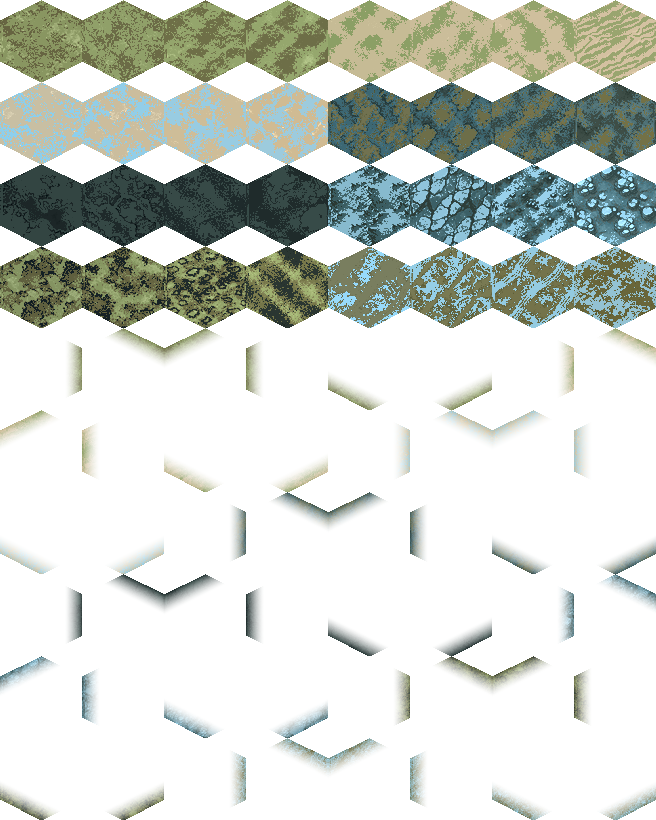
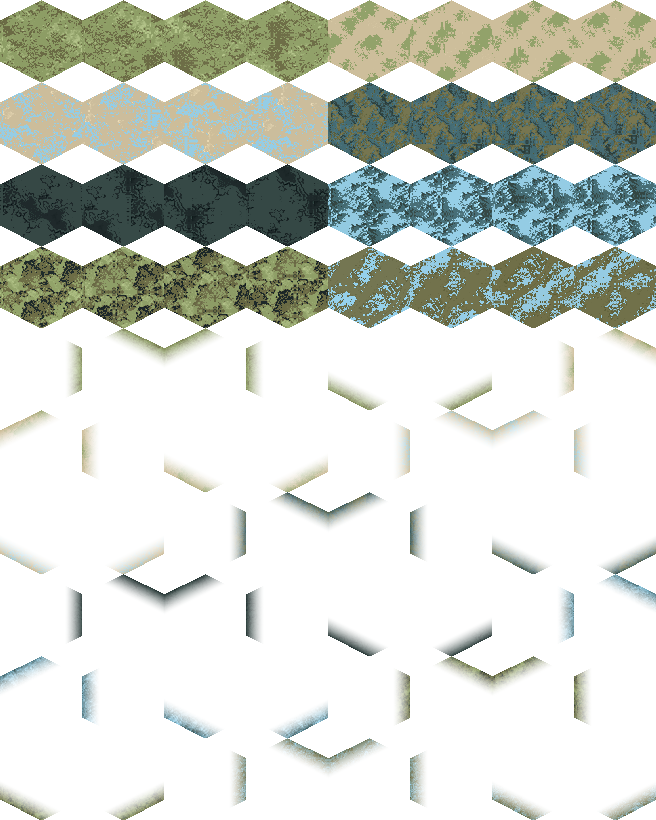
fix(map): варианты биома — фазы одной ткани, а не четыре независимых рисунка
Глазной приём 11.3 по кадру (read, нативный 1× и 0.7×) после круга 17: прямоугольной
сетки нет, но трава читается диагональной «ёлочкой» — мозаикой плиток. Причина в сырье:
варианты биома — четыре независимых арта, и направление мазка у них расходится
(L1 по 18 бинам ориентации градиента: песок 0.94, дорога 0.56, камень 0.36, трава 0.27
из 2). Тон к тону выровнен (`atlas/variant-tone` 1.1), ткань — нет. Меры этого не видели:
`frame/variety` мерит долю модального тайла, `atlas/variant-tone` — средний тон,
`measure_mottle_cut.py` — средний профиль поперёк ребра; ориентацию не мерит никто.

- assemble: варианты = циклический сдвиг нулевого take'а (11…70 px по crc id) + второй
  проход make_wrap. Статистика ткани не меняется, различается фаза, и соседние клетки
  различаются зерном, а не рисунком. Размен: 3 из 4 сгенерированных кадров на биом в
  сборке не участвуют.
- атлас 10d09bd59ccdc1d3302fb20635bc4df1 (201 КБ); кадр phase-variants-t143.png,
  gate-phase-t143.txt: GATE=0, 18/18 (atlas/distinct 1.00, frame/periodicity 0.36 при
  пороге ≤0.60 — лист не стал периодическим, frame/variety grass 0.84 / water 0.74).
  Без кадра 15/15, --self-test 12/12.
- GdUnit 513/513 (tests/unit/world + tests/functional/test_tileset_integrity.gd), exit 0.
- носитель A/B: review-11-3/phase-variants-t143.png (нативный 1× одного seed),
  phase-variants-overview-t143.png. baseline.png не перетёрт.

diff --git a/scripts/gen_map_art.py b/scripts/gen_map_art.py
@@ -351,8 +351,26 @@ def assemble() -> int:
         tiles.append(img)
         cells.append(cell)
 
+    # Варианты биома — фазы ОДНОЙ ткани, а не четыре разных рисунка (глазной приём 11.3,
+    # круг 18): четыре независимых кадра различаются направлением и масштабом мазка —
+    # ориентационное расхождение градиента (L1 по 18 бинам) у песка 0.94, у дороги 0.56,
+    # у травы 0.27 — и карта собирается диагональной «ёлочкой»: глаз читает мозаику
+    # плиток, а не ландшафт (носитель `review-11-3/phase-variants-t143.png`). Циклический
+    # сдвиг зашитого тайла статистики не меняет: соседние клетки различаются зерном,
+    # а не тканью. Рампа и `shift` take'а во всех, кроме нулевого, не участвуют: тон
+    # варианта выравнивается к среднему биома ниже по коду, а `atlas/distinct` (8×8)
+    # различает фазы и так: `atlas/distinct` 1.00 при пороге ≥0.90.
+    fabric: dict[str, np.ndarray] = {}
+
     for r in mats:
-        base = tile_from(r["path"], r["ramp"], r["shift"], r["id"])
+        if r["take"] == 0:
+            base = tile_from(r["path"], r["ramp"], r["shift"], r["id"])
+            fabric[r["biome"]] = np.asarray(base)
+        else:
+            rng = np.random.default_rng(zlib.crc32(r["id"].encode()))
+            dy, dx = rng.integers(11, 71, 2)   # фаза: не кратно 1/2 тайла, чтобы глаз не ловил период
+            rolled = np.roll(np.roll(fabric[r["biome"]], int(dy), 0), int(dx), 1)
+            base = Image.fromarray(make_wrap(rolled, band=WRAP_TILE_BAND), "RGBA")
         add(base, {"id": f"base_{r['biome']}_{r['take']}", "kind": "base", "biome": r["biome"],
                    "variant": r["take"], "source": str(r["path"].relative_to(ROOT))}, r["path"])
         bases.setdefault(r["biome"], []).append(base)

diff --git a/docs/reference/map-baseline/REPORT.md b/docs/reference/map-baseline/REPORT.md
@@ -112,11 +112,12 @@ date: 2026-10-19
 | шов декали ΔE(перо ↔ носимый тон), медиана / худший | 6.7 / 20.5 | **3.6 / 11.6** | `review-t136/`, `measure_decal_seam.py` |
 | Δgrain перо ↔ своя клетка (та же ткань) | — | **0.80×** при контроле **0.98×** (760 пар) | `review-t136/REVIEW.md` |
 | контроль «полосы нет» (однородная ткань) | — | 0.98× (норма 0.9–1.1) | там же |
-| приёмка кадра живого рендера | 17/17 на круге 11 | круга 16: **18/18** на `variant-tone-t143.png`; круга 17: **18/18** на `hex-mask-t143.png`; `frame/edge-step` про шов по-прежнему не утверждает ничего (T-142) | `check_map_art.py --shot`, носитель `hex-mask-t143.png` |
+| приёмка кадра живого рендера | 17/17 на круге 11 | круга 17: **18/18** на `hex-mask-t143.png`; круга 18: **18/18** на `phase-variants-t143.png`; `frame/edge-step` про шов по-прежнему не утверждает ничего (T-142) | `check_map_art.py --shot`, носитель `phase-variants-t143.png` |
 | форма клетки | база и декаль — непрозрачный квадрат 82×82, движок рисует его квадратным квадом в гекс-тайлсете: наезд рядов 20.5 px, по карте сетка прямоугольников | атлас режется гексом движка (`gen_map_art.hex_mask`); гейт `atlas/base-opaque` (ловил ровно этот дефект) заменён на `atlas/hex-shape`, тон/дисперсия/шов меряются по видимой части клетки | `BASELINE.md` «Форма клетки», **T-143** |
 | тон вариантов: макс. ΔE средних тонов внутри биома | 13.4 (mud) — карта собиралась из тоновых заплат | **1.1** (mud) по гексу; гейт `atlas/variant-tone` ≤ 3.0, σ L\* клеток травы 1.93 → 0.91 | `BASELINE.md` «Тон вариантов», **T-143** |
+| структура вариантов: расхождение направления мазка (L1, 18 бинов) | 0.94 (sand), 0.56 (road), 0.36 (rock) — четыре независимых рисунка, на карте диагональная «ёлочка», глаз читает мозаику | варианты — **фазы одной ткани** (циклический сдвиг нулевого take'а); `atlas/distinct` 1.00, `frame/periodicity` 0.36 | `BASELINE.md` «Варианты — фазы», `review-11-3/phase-variants-t143.png`, **T-143** |
 | туман в кадре | флаг был no-op | `fog_cells=1563/1600`, `quit(4)` при нуле | `map_shot.gd`, D-207 |
-| атлас (носитель) | — | md5 `07930abfe612861fbc875b64ded6d498` (клетки вырезаны гексом; прежний `47fa6027…` — до формы клетки, `aa628cc2…` — до T-143) | §9.1 арт-библии |
+| атлас (носитель) | — | md5 `10d09bd59ccdc1d3302fb20635bc4df1` (варианты — фазы одной ткани; `07930abf…` — форма гекса, `47fa6027…` — до T-143) | §9.1 арт-библии |
 | лист объектов (носитель) | — | md5 `8fd69c61331e15a76e7209db6a175138` | там же |
 | референс-кадр 10 | — | md5 `a5342e0a8022767c70f1ddee559de40c` | `reference/INDEX.md` |
 

diff --git a/docs/mvp/TICKETS.md b/docs/mvp/TICKETS.md
@@ -1954,3 +1954,24 @@ sword_hellstorm. **Самоликвидация:** генерация сета 2
   границы биомов идут рёбрами гексов. Осталось видно **стык фактуры** по рёбрам гексов
   (варианты различаются углом и масштабом пятна — круг 16), и это уже не дефект формы.
   Мера расхождения масштаба — `scripts/measure_mottle_cut.py` + доли полос 1…16 px.
+- **Круг 18 (2026-10-19): «ёлочка» — это четыре разных рисунка на биом.** Глазной приём
+  кадра (`read`, нативный 1× и 0.7×, а не меры) после круга 17: прямоугольников нет, но
+  трава читается диагональной решёткой, мозаикой плиток. В сырье расхождение направления
+  мазка между вариантами (L1 по 18 бинам ориентации градиента): песок **0.94**, дорога
+  0.56, камень 0.36, трава 0.27 из 2 — варианты печатаются четырьмя независимыми
+  артами. Тон к тону уже выровнен (`atlas/variant-tone` 1.1), ткань — нет. Ни одна мера
+  этого не видела: `frame/variety` считает долю модального тайла, `atlas/variant-tone` —
+  средний тон, `measure_mottle_cut.py` — средний профиль поперёк ребра; ориентацию не
+  мерит никто (кандидат меры `atlas/orientation`, знаменатель мер не трогать без
+  решения владельца).
+  Правка: варианты биома — циклические сдвиги одного зашитого тайла (нулевого take'а),
+  сдвиг 11…70 px по crc id + второй проход `make_wrap`. Размен: 3 из 4 сгенерированных
+  кадров на биом в сборке не участвуют. Носитель — `review-11-3/phase-variants-t143.png`
+  (нативный A/B одного seed), `phase-variants-overview-t143.png`; кадр
+  `phase-variants-t143.png`, атлас `10d09bd5…` (201 КБ), `gate-phase-t143.txt` GATE=0
+  18/18 (`distinct` 1.00, `periodicity` 0.36, `frame/variety` grass 0.84 / water 0.74).
+  GdUnit 513/513, exit 0.
+- **Что глаз видит после круга 18 (снимается только решением владельца):** шеврон у камня
+  и «зебру» у песка — характер самой ткани (`mat_rock_*`, `mat_sand_*`), не мозаика;
+  оплывшую бахрому границы травы и камня — ширина пера декаля `FEATHER` относительно
+  гекса 82 px (T-136/T-138 калибровка, менять отдельно); воду — крупные светлые «пузыри».

diff --git a/openspec/changes/world-map-art-variety/tasks.md b/openspec/changes/world-map-art-variety/tasks.md
@@ -149,7 +149,9 @@
   — `Success: no problems found` (в т.ч. новый `game/tools/variant_distribution.gd`, из `game/` по
     `game/.gdlintrc` — урок §3); чекер: файлы `GATE=0` (15 мер + 1 явный SKIP), кадр
     `variant-tone-t143.png` `GATE=0` (18 мер), `--self-test` 12/12
-- [ ] 11.3 ux-review карты (визуальный приём владельцем в треде) — **до мержа**, не после (урок UI-3: main нёс HUD с FAIL по AC7). Круг 17: прямоугольная сетка снята — клетки атласа вырезаны гексом движка (T-143); приём `review-11-3/hex-mask-ab.png`, кадр `hex-mask-t143.png`, `gate-t143.txt` (18/18)
+- [ ] 11.3 ux-review карты (визуальный приём владельцем в треде) — **до мержа**, не после (урок UI-3: main нёс HUD с FAIL по AC7). Круг 17: прямоугольная сетка снята — клетки атласа вырезаны гексом движка. Круг 18: диагональная
+  «ёлочка» снята — варианты биома стали фазами одной ткани (T-143). Приём:
+  `review-11-3/phase-variants-t143.png`, кадр `phase-variants-t143.png`, `gate-phase-t143.txt` (18/18)
   — **открыт, блокит мерж.** С круга 14 приём выполняется машинным зрением ([[MACHINE-EYE]]),
     вердикт FAIL по AC 7; T-142 (перо перехода) открыт, T-143 устранён в круге 16 (тон
     вариантов), круг 16b измерил остаток: не стык (|∇| на рёбрах Вороного 0.99…1.07×) и не
